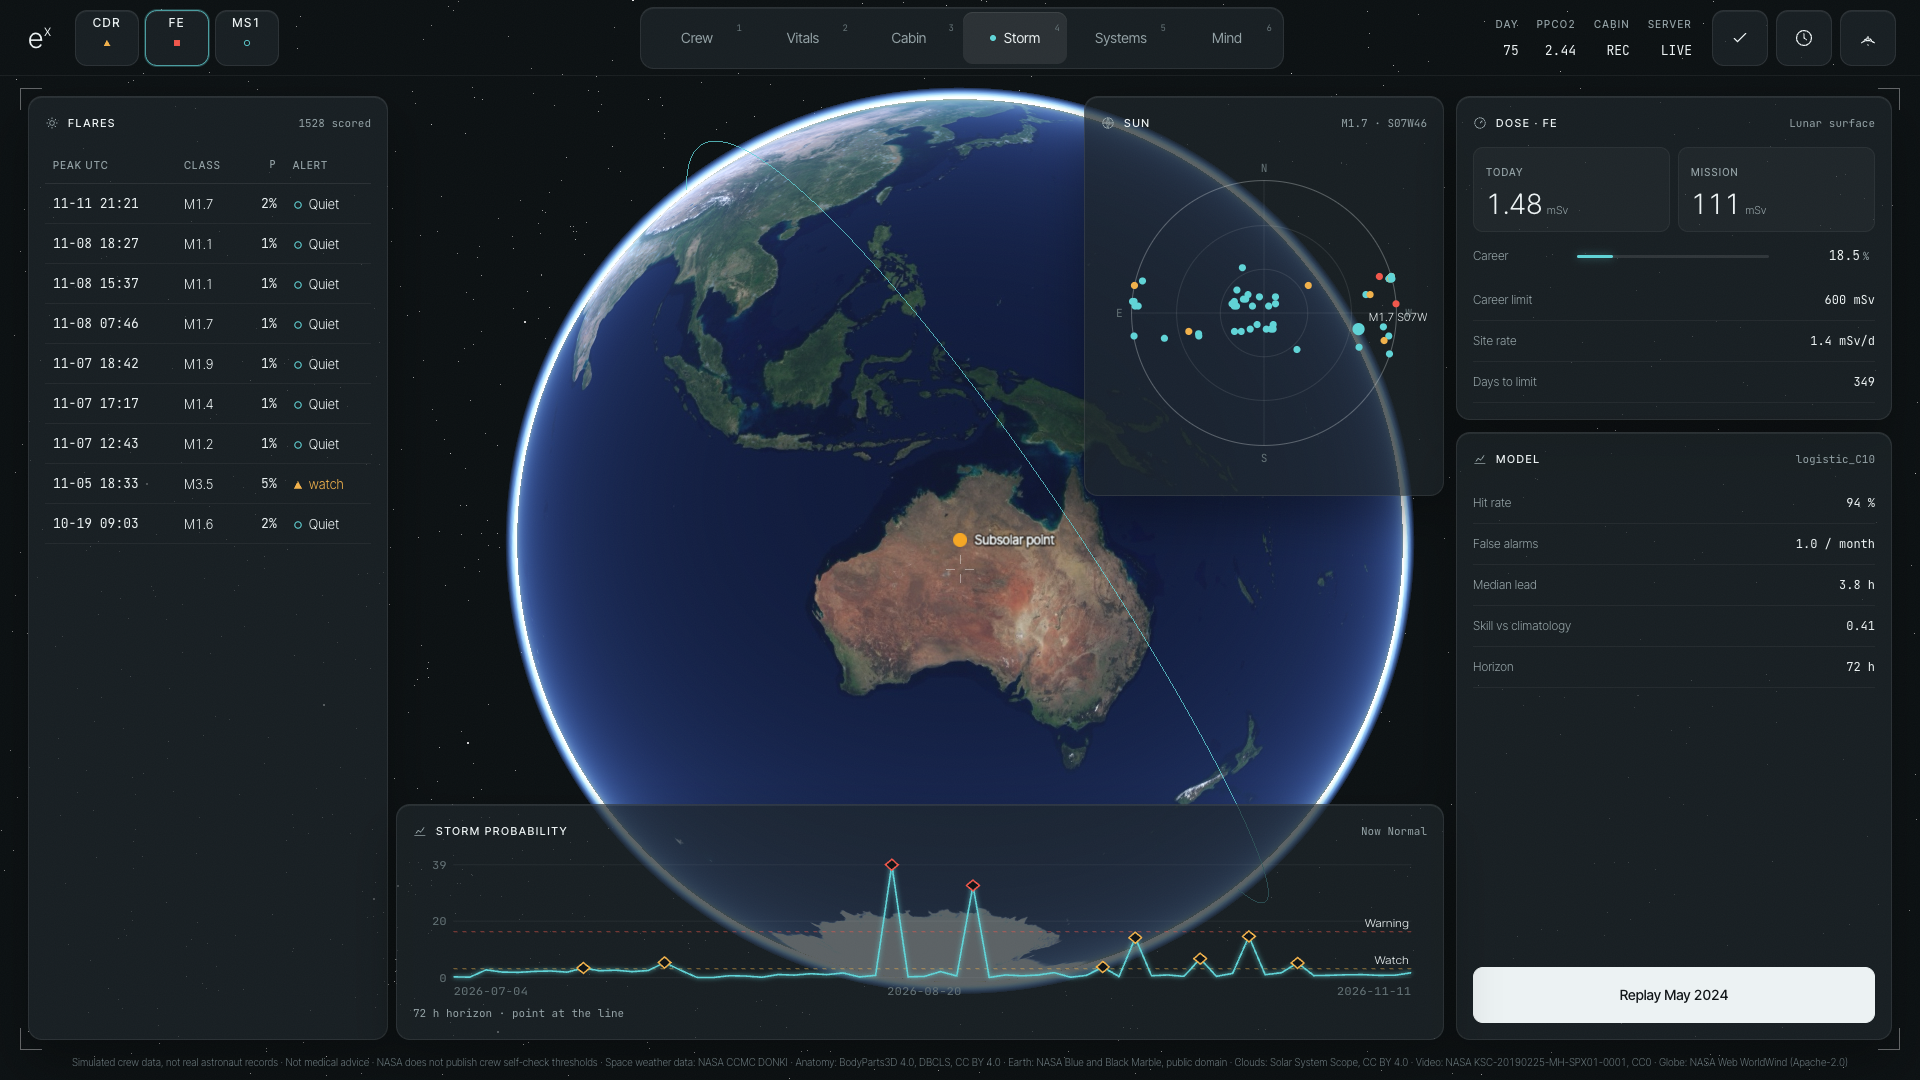
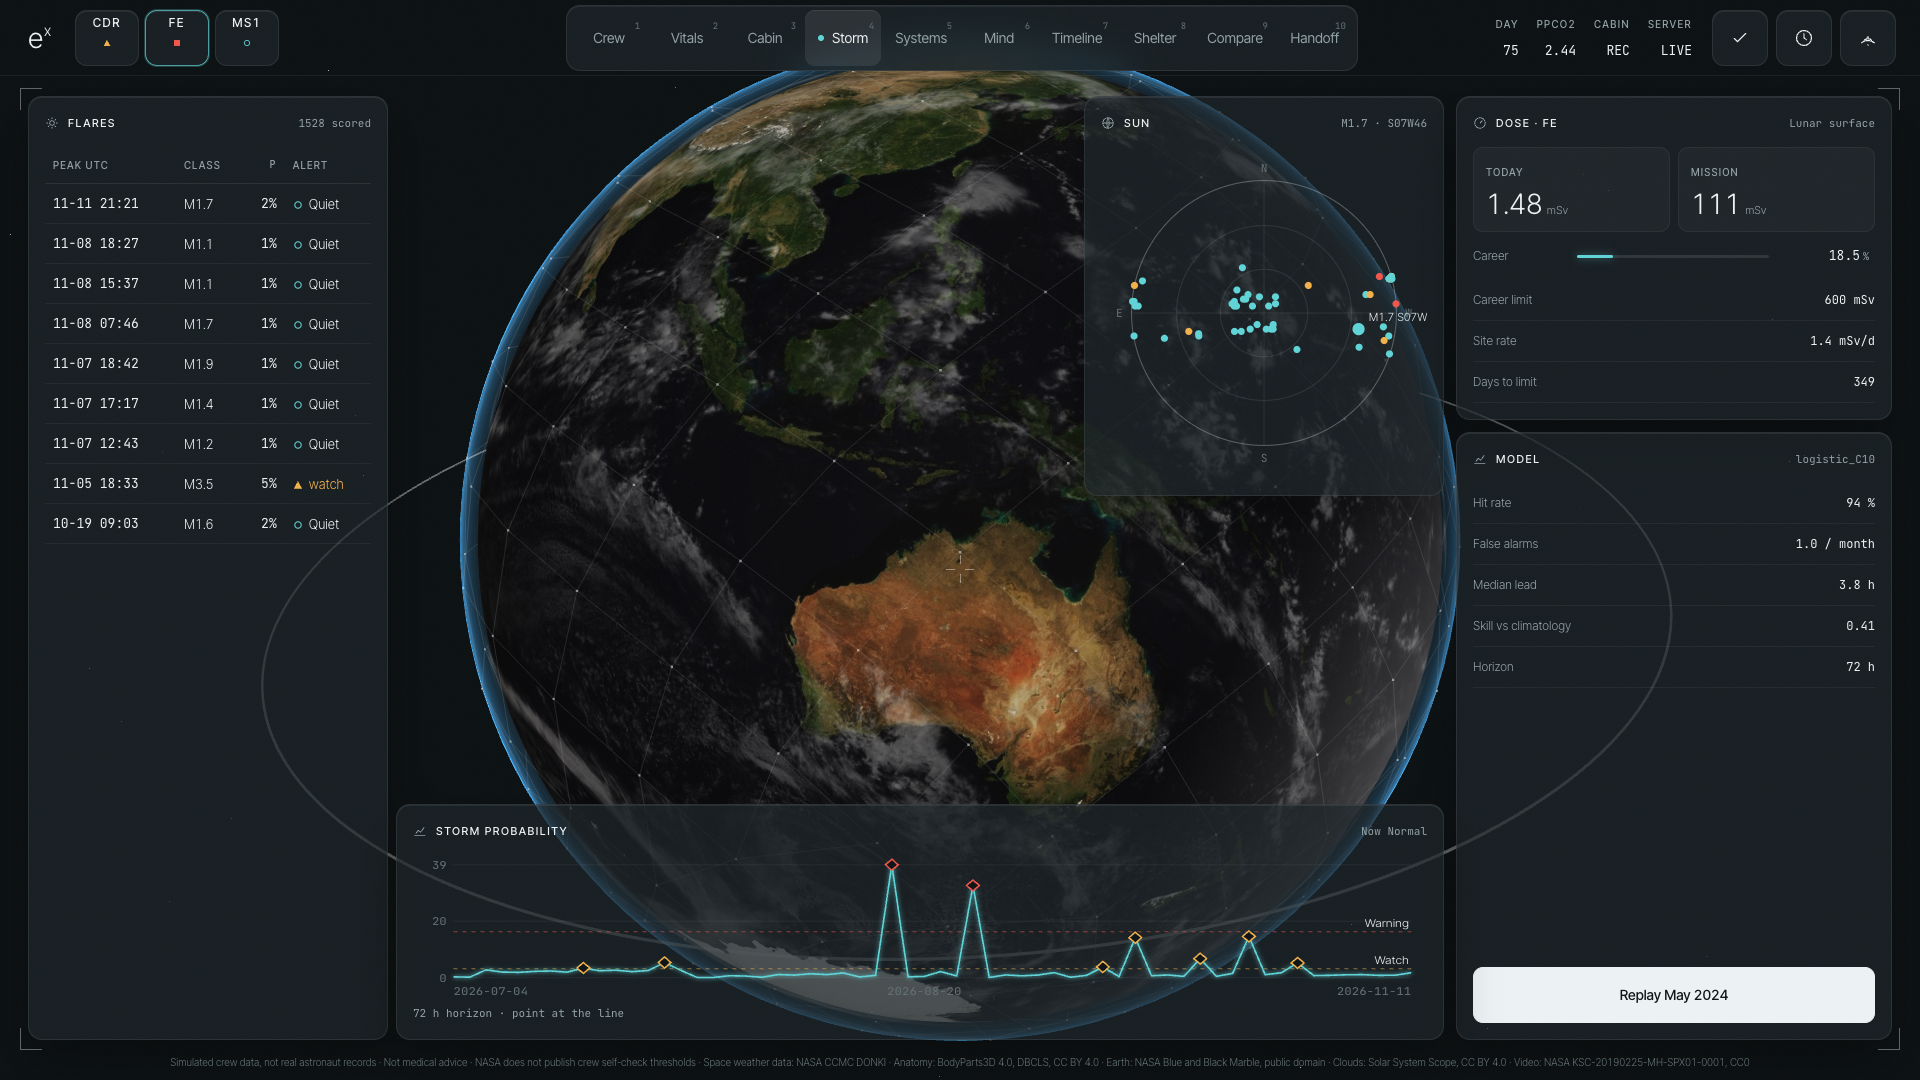
Console: 10 sections incl. Timeline, Shelter drill, Compare, Handoff; ISS track from CelesTrak TLE; server scale words; recorded cabin; UI check script (0 errors, 0 external requests)

diff --git a/web/src/console/Globe.tsx b/web/src/console/Globe.tsx
@@ -2,7 +2,7 @@
 // Solar System Scope clouds (CC BY 4.0), a fresnel atmosphere, an orbit track, a fine dotted
 // network mesh, and tooltips anchored to points with a leader line. Still: it only turns
 // when the crew uses the rotate dial.
-import { Suspense, useMemo, useRef, type ReactNode } from 'react';
+import { Suspense, useEffect, useMemo, useRef, useState, type ReactNode } from 'react';
 import { useFrame } from '@react-three/fiber';
 import { Html, useTexture } from '@react-three/drei';
 import * as THREE from 'three';
@@ -150,6 +150,7 @@ export const onOrbit = (a: number): [number, number, number] => [Math.cos(a) * O
 
 /** Earth, atmosphere, network mesh and orbit track, at the origin (no canvas). */
 export function EarthGroup({ yaw = 0, tips = [], orbitTips = [], onDouble, orbit = true }: { yaw?: number; tips?: Tip[]; orbitTips?: Tip[]; onDouble?: (p: THREE.Vector3) => void; orbit?: boolean }) {
+  const iss = useIssTrack();
   const atmo = useMemo(
     () =>
       new THREE.ShaderMaterial({
@@ -171,7 +172,7 @@ export function EarthGroup({ yaw = 0, tips = [], orbitTips = [], onDouble, orbit
       <mesh scale={1.035} material={atmo}>
         <sphereGeometry args={[1, 64, 64]} />
       </mesh>
-      <group rotation={ORBIT_TILT} visible={orbit}>
+      <group rotation={ORBIT_TILT} visible={orbit && !iss}>
         <mesh>
           <torusGeometry args={[ORBIT_R, 0.0022, 8, 256]} />
           <meshBasicMaterial color="#e6f4f4" transparent opacity={0.45} />
@@ -180,15 +181,105 @@ export function EarthGroup({ yaw = 0, tips = [], orbitTips = [], onDouble, orbit
           <sphereGeometry args={[0.018, 16, 16]} />
           <meshBasicMaterial color="#5fd3d6" />
         </mesh>
-        {orbitTips.map((t) => (
-          <Pin key={t.id} tip={t} />
-        ))}
+        {!iss &&
+          orbitTips.map((t) => (
+            <Pin key={t.id} tip={t} />
+          ))}
       </group>
       <group rotation={[0.32, yaw, 0]}>
+        {orbit && iss && (
+          <>
+            <line>
+              <bufferGeometry>
+                <bufferAttribute attach="attributes-position" args={[iss.points, 3]} />
+              </bufferGeometry>
+              <lineBasicMaterial color="#5fd3d6" transparent opacity={0.75} />
+            </line>
+            <mesh position={iss.now}>
+              <sphereGeometry args={[0.016, 16, 16]} />
+              <meshBasicMaterial color="#5fd3d6" />
+            </mesh>
+            {orbitTips.map((t) => (
+              <Pin key={t.id} tip={{ ...t, pos: iss.now }} />
+            ))}
+          </>
+        )}
         {tips.map((t) => (
           <Pin key={t.id} tip={t} />
         ))}
       </group>
     </group>
   );
+}
+
+/* ---------- ISS orbit from a CelesTrak TLE (two-body propagation, client-side, offline) ---------- */
+
+const MU = 398600.4418; // km^3/s^2
+const RE = 6378.137; // km
+
+interface Tle { epoch: number; i: number; raan: number; e: number; argp: number; m0: number; n: number }
+
+function parseTle(text: string): Tle | null {
+  const lines = text.trim().split('\n').map((l) => l.trimEnd());
+  const l1 = lines.find((l) => l.startsWith('1 '));
+  const l2 = lines.find((l) => l.startsWith('2 '));
+  if (!l1 || !l2) return null;
+  const yy = Number(l1.slice(18, 20));
+  const doy = Number(l1.slice(20, 32));
+  const year = yy < 57 ? 2000 + yy : 1900 + yy;
+  const epoch = Date.UTC(year, 0, 1) + (doy - 1) * 86400000;
+  const d = (a: number, b: number) => (Number(l2.slice(a, b)) * Math.PI) / 180;
+  return { epoch, i: d(8, 16), raan: d(17, 25), e: Number(`0.${l2.slice(26, 33).trim()}`), argp: d(34, 42), m0: d(43, 51), n: (Number(l2.slice(52, 63)) * 2 * Math.PI) / 86400 };
+}
+
+/** Earth-fixed lat/lon/alt at time t (ms). Two-body: no J2 drift, good for a ground track. */
+function propagate(k: Tle, t: number): { lat: number; lon: number; alt: number } {
+  const a = Math.cbrt(MU / (k.n * k.n));
+  const M = k.m0 + k.n * ((t - k.epoch) / 1000);
+  let E = M;
+  for (let j = 0; j < 8; j++) E -= (E - k.e * Math.sin(E) - M) / (1 - k.e * Math.cos(E));
+  const nu = 2 * Math.atan2(Math.sqrt(1 + k.e) * Math.sin(E / 2), Math.sqrt(1 - k.e) * Math.cos(E / 2));
+  const r = a * (1 - k.e * Math.cos(E));
+  const u = k.argp + nu;
+  const x = r * (Math.cos(k.raan) * Math.cos(u) - Math.sin(k.raan) * Math.sin(u) * Math.cos(k.i));
+  const y = r * (Math.sin(k.raan) * Math.cos(u) + Math.cos(k.raan) * Math.sin(u) * Math.cos(k.i));
+  const z = r * Math.sin(u) * Math.sin(k.i);
+  const jd = t / 86400000 + 2440587.5;
+  const gmst = ((280.46061837 + 360.98564736629 * (jd - 2451545)) * Math.PI) / 180;
+  const lon = Math.atan2(y, x) - gmst;
+  return { lat: (Math.asin(z / r) * 180) / Math.PI, lon: ((((lon * 180) / Math.PI + 540) % 360) + 360) % 360 - 180, alt: r - RE };
+}
+
+/** One orbit of the ISS ground track from now, from public/orbits/iss.tle. */
+export function useIssTrack(at?: Date): { points: Float32Array; now: [number, number, number] } | null {
+  const [tle, setTle] = useStateTle();
+  void setTle;
+  return useMemo(() => {
+    if (!tle) return null;
+    const t0 = (at ?? new Date()).getTime();
+    const period = (2 * Math.PI) / tle.n;
+    const pts: number[] = [];
+    let now: [number, number, number] = [0, 0, 0];
+    for (let s = 0; s <= 180; s++) {
+      const p = propagate(tle, t0 + (s / 180) * period * 1000);
+      const v = ll(p.lat, p.lon, 1 + p.alt / RE);
+      pts.push(...v);
+      if (s === 0) now = v;
+    }
+    return { points: new Float32Array(pts), now };
+  }, [tle, at]);
+}
+
+let tleCache: Promise<Tle | null> | null = null;
+function useStateTle(): [Tle | null, (t: Tle | null) => void] {
+  const [tle, setTle] = useState<Tle | null>(null);
+  useEffect(() => {
+    tleCache ??= fetch(`${import.meta.env.BASE_URL}orbits/iss.tle`).then((r) => (r.ok ? r.text() : '')).then(parseTle, () => null);
+    let alive = true;
+    void tleCache.then((t) => alive && setTle(t));
+    return () => {
+      alive = false;
+    };
+  }, []);
+  return [tle, setTle];
 }

diff --git a/web/src/console/ShelterPage.tsx b/web/src/console/ShelterPage.tsx
@@ -15,7 +15,19 @@ export default function ShelterPage() {
   const [phase, setPhase] = useState<'ready' | 'warning' | 'sheltered' | 'arrived'>('ready');
   const [t, setT] = useState(0); // drill hours elapsed
   const [ask, setAsk] = useState(false);
-  const ev = useMemo(() => (data ? sortedEvents(data.storm).filter((e) => e.alert_level === 'warning' && e.actual_storm && e.lead_time_h != null).at(-1) : undefined), [data]);
+  // the storm day in the crew series is the day with the highest daily dose (the generator puts the
+  // one real storm of the mission window there); the warning is the verified one nearest that day
+  const stormDay = useMemo(() => {
+    const s = cv?.m.series.filter((r) => r.dose_mSv_day != null) ?? [];
+    return s.length ? s.reduce((a, b) => (b.dose_mSv_day! > a.dose_mSv_day! ? b : a)).date : null;
+  }, [cv]);
+  const ev = useMemo(() => {
+    if (!data) return undefined;
+    const warn = sortedEvents(data.storm).filter((e) => e.alert_level === 'warning' && e.actual_storm && e.lead_time_h != null);
+    if (!stormDay) return warn.at(-1);
+    const t0 = Date.parse(stormDay);
+    return [...warn].sort((a, b) => Math.abs(Date.parse(a.peak_time) - t0) - Math.abs(Date.parse(b.peak_time) - t0))[0];
+  }, [data, stormDay]);
   const lead = ev?.lead_time_h ?? 0;
 
   useEffect(() => {
@@ -31,8 +43,7 @@ export default function ShelterPage() {
   if (!ev) return <p className="cx-error">No verified storm warning in the forecast file</p>;
 
   // dose on the storm days in the (simulated) crew series, against the site's normal daily dose
-  const onset = (ev.storm_onset_time ?? ev.peak_time).slice(0, 10);
-  const near = cv.m.series.filter((r) => Math.abs(Date.parse(r.date) - Date.parse(onset)) <= 2 * 86400000 && r.dose_mSv_day != null);
+  const near = cv.m.series.filter((r) => r.date === stormDay && r.dose_mSv_day != null);
   const normal = cd.environments[cd.mission.environment].dose_mSv_day;
   const storm = near.length ? Math.max(...near.map((r) => r.dose_mSv_day!)) : null;
   const excess = storm != null ? Math.max(0, storm - normal) : null;
@@ -91,7 +102,7 @@ export default function ShelterPage() {
         </div>
       </Panel>
 
-      <Panel label={`Dose · ${seat[cv.m.id]}`} icon="dial" aside="Storm day" className="sh-right">
+      <Panel label={`Dose · ${seat[cv.m.id]}`} icon="dial" aside={`Storm day ${stormDay ?? '--'}`} className="sh-right">
         <dl className="stats">
           <div className="st" data-status="red">
             <dt>Not sheltered</dt>

diff --git a/web/src/console/Porcelain.tsx b/web/src/console/Porcelain.tsx
@@ -40,8 +40,8 @@ const BASE: Record<string, number> = {
   skin: 0.16,
   muscles: 0,
   muscle_antigravity: 0,
-  bones: 0.9,
-  bones_loadbearing: 0.9,
+  bones: 0.72,
+  bones_loadbearing: 0.72,
   arteries: 0.1,
   artery_lad: 0.1,
   veins: 0.06,
@@ -87,7 +87,7 @@ export function Porcelain({
 
   // goals for each node
   const goals = useMemo(() => {
-    const g: Record<string, { o: number; c: THREE.Color }> = {};
+    const g: Record<string, { o: number; c: THREE.Color; top?: boolean }> = {};
     const inFocus = new Set(focus ? TARGETS[focus].nodes : []);
     for (const n of Object.keys(geo)) {
       let o = BASE[n] ?? 0.3;
@@ -98,7 +98,7 @@ export function Porcelain({
     for (const [t, s] of Object.entries(tint) as [TargetId, Status][]) {
       const n = TINT_NODE[t];
       if (!n || !g[n] || (s === 'green' && t !== focus)) continue;
-      g[n] = { o: Math.max(g[n].o, 0.9), c: WHITE.clone().lerp(TINT[s], 0.55) };
+      g[n] = { o: Math.max(g[n].o, 0.9), c: WHITE.clone().lerp(TINT[s], 0.55), top: s !== 'green' && !focus };
     }
     for (const n of Object.keys(g)) {
       if (!layers[LAYER_OF[n] ?? 'organs']) g[n] = { ...g[n], o: 0 };
@@ -116,6 +116,7 @@ export function Porcelain({
       m.opacity += (goal.o - m.opacity) * k;
       m.color.lerp(goal.c, k);
       m.depthWrite = m.opacity > 0.85;
+      m.depthTest = !goal.top; // an affected organ shows through the skeleton
       m.visible = m.opacity > 0.01;
     }
   });

diff --git a/web/src/console/Shell.tsx b/web/src/console/Shell.tsx
@@ -140,7 +140,7 @@ export function Shell() {
 
       <footer className="cx-credits">
         {[...DISCLAIMERS, data ? `Space weather data: ${data.storm.meta.data_credit}` : ''].filter(Boolean).join('  ·  ')}
-        {'  ·  '}Anatomy: BodyParts3D 4.0, DBCLS, CC BY 4.0 · Earth: NASA Blue and Black Marble, public domain · Clouds: Solar System Scope, CC BY 4.0 · Video: NASA KSC-20190225-MH-SPX01-0001, CC0
+        {'  ·  '}Anatomy: BodyParts3D 4.0, DBCLS, CC BY 4.0 · Earth: NASA Blue and Black Marble, public domain · Clouds: Solar System Scope, CC BY 4.0 · Video: NASA KSC-20190225-MH-SPX01-0001, CC0 · ISS orbit: CelesTrak TLE
       </footer>
       <div className="cx-grain" aria-hidden />
 

diff --git a/web/SPEC.md b/web/SPEC.md
@@ -2,15 +2,23 @@
 
 Vite + React + R3F, Flight Record look (`src/styles/flight.css`). Offline by default. Dev: `npm run dev` (http://127.0.0.1:5630).
 
-## Routes
-| Route | Screen | Source |
-|---|---|---|
-| `/body` (default) | 01 Body: 3D body, seven plates with leader callouts, side note (value vs own band mean +/- 2 sd, days running, explanation, action, re-measure). URL keeps `?crew=&plate=&metric=` | `src/features/body/` |
-| `/cabin` | 02 Cabin: air (pressure, ppO2, ppCO2, CO planned, temperature, humidity planned), water tanks, crew dose (today, career vs limit), storm forecast feed, model card | `src/features/cabin/` |
-| `/cabin/replay` | May 2024 replay (the radiation concept, reused) | `src/concepts/radiation/` |
-| `/concepts`, `/concepts/:id` | Design concepts, not in the nav | `src/concepts/*` |
+## Routes (the crew console, `src/console/`)
+One persistent R3F scene (`World.tsx`: Earth with real-sun terminator, ISS track from a CelesTrak TLE, porcelain body in a grey studio) behind a HUD (`Shell.tsx`: mark + crew seats, section tabs 1-9, telemetry, actions). The camera flies between sections.
+| Route | Screen |
+|---|---|
+| `/` | Crew: cabin rail, selected crew vitals rail (three-state widgets), active alerts + one action |
+| `/vitals` | Body levels 1-3 (`?t=organ&k=metric&deep=1`), signal bars, analytics |
+| `/cabin` | Recorded ISS cabin (14 Nov), radial dial, tanks, commands, pressure emergency confirm (`?drill=1`) |
+| `/storm`, `/storm/replay` | Flares, Sun plot, dose, model scores, storm probability; May 2024 replay |
+| `/systems` | Sensors -> Cabin -> e^x -> Crew HUD -> Escalation, sources from `docs/lineage.json` |
+| `/mind` | Self-report, habits/to-dos (server tasks when `/api` answers), private journal |
+| `/timeline` | All mission days; drag to replay the whole HUD as of a day |
+| `/shelter` | Shelter drill from the latest verified warning; dose sheltered (estimate) vs not |
+| `/compare` | All crew bodies side by side, one metric lit |
+| `/handoff` | Case bundle for an onboard AI medical assistant, sent with the one-way light delay |
+| `/concepts`, `/concepts/:id` | Design concepts, not in the nav |
 
-Shell (`src/app/Shell.tsx`): nav 01 Body / 02 Cabin, crew switcher (shared by both sections), mission facts, footer with every disclaimer and the anatomy credit.
+Check: `node scripts/check-ui.mjs` clicks every control and fails on console errors or external requests.
 
 ## Data layer (`src/data`, the only network code)
 - `http.ts`: `getJson(path)` relative to the app origin (rejects non-JSON, so a static host's index.html is "no server"); `hasServer()` probes `/api/health` once.
